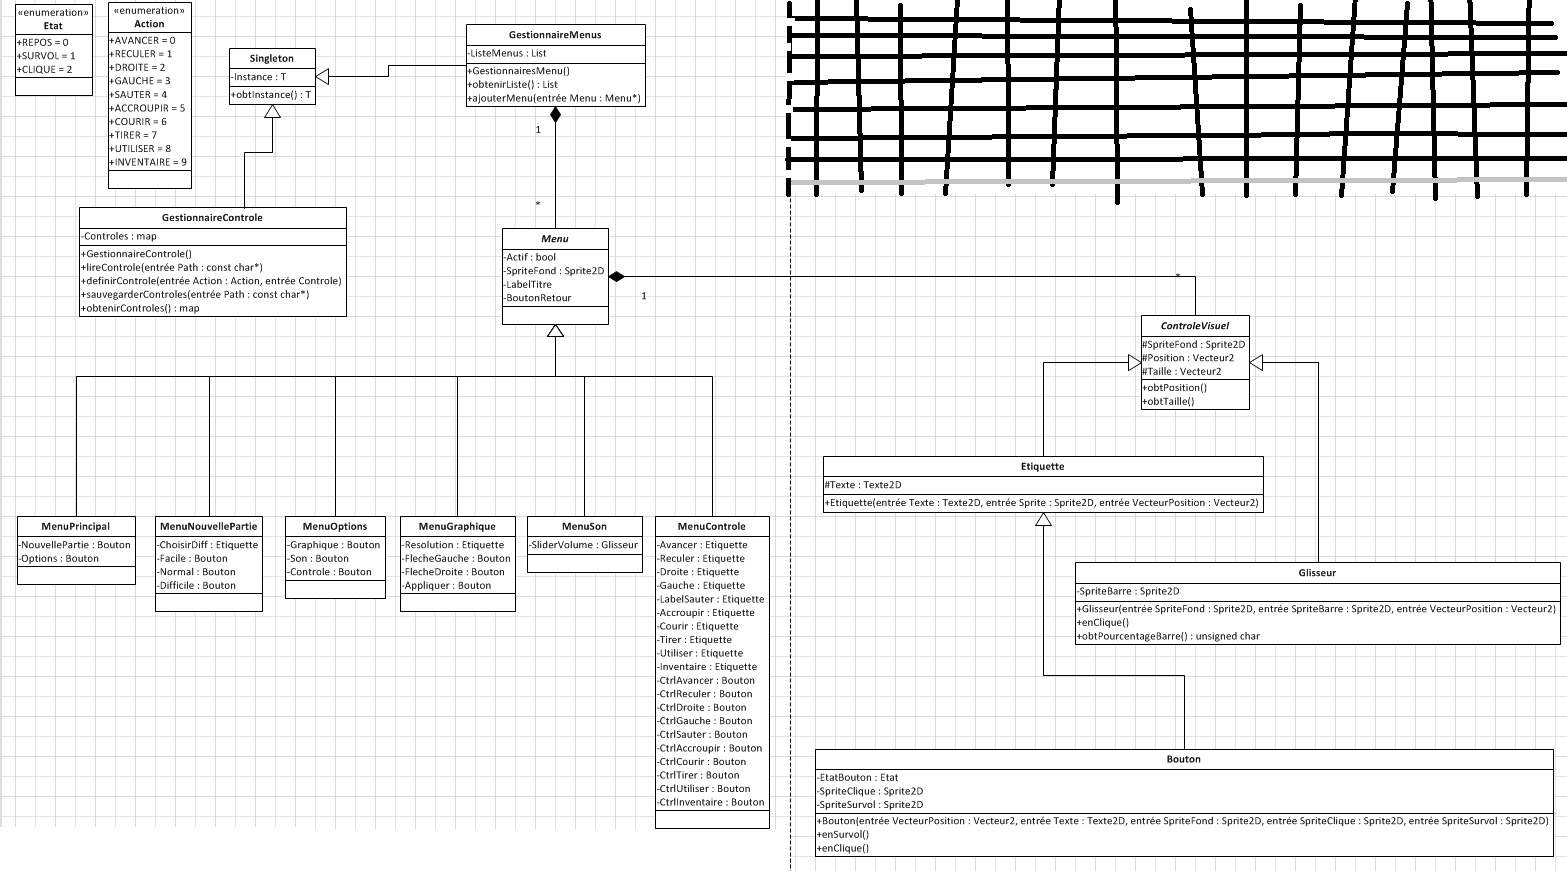
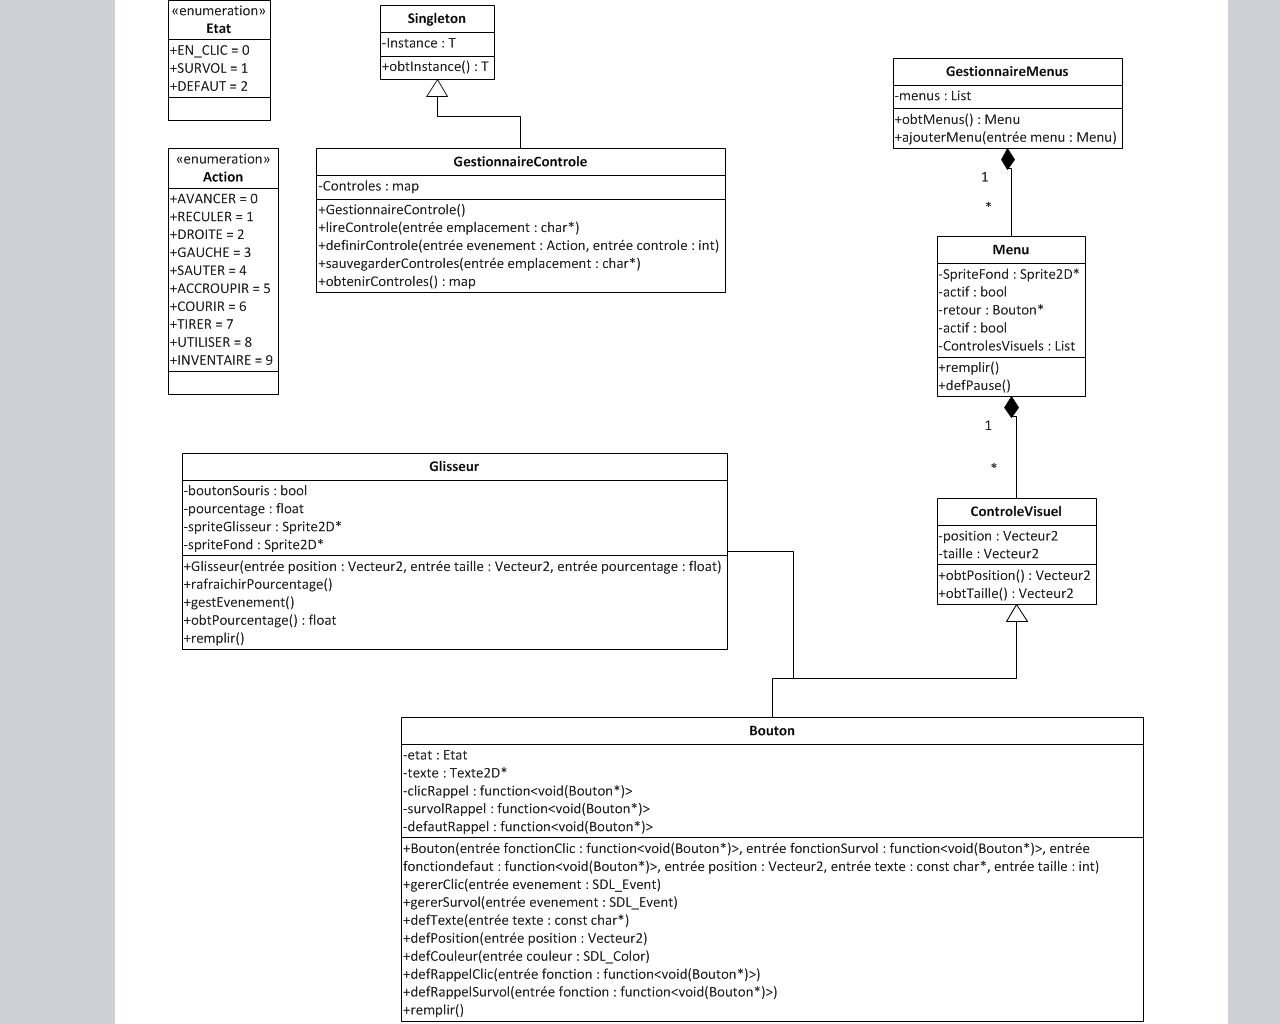
Update Journal

Changed region(s): [[0.0, 0.0, 1.0, 1.0]]

diff --git a/Journal de bord/JDB_Dean.md b/Journal de bord/JDB_Dean.md
@@ -171,4 +171,12 @@ Premièrement j'ai ajouté une méthode remplir dans toutes les phases, menus et
 
 ###Durée: 4h
 
-##Durée Totale: 53h30
+##Jeudi 23 avril 2015
+
+###10:30 à 11:30
+
+J'ai refait le diagramme de classes pour qu'il ressemble à ce que nous avions au début.
+
+###Durée: 1h
+
+##Durée Totale: 54h30
